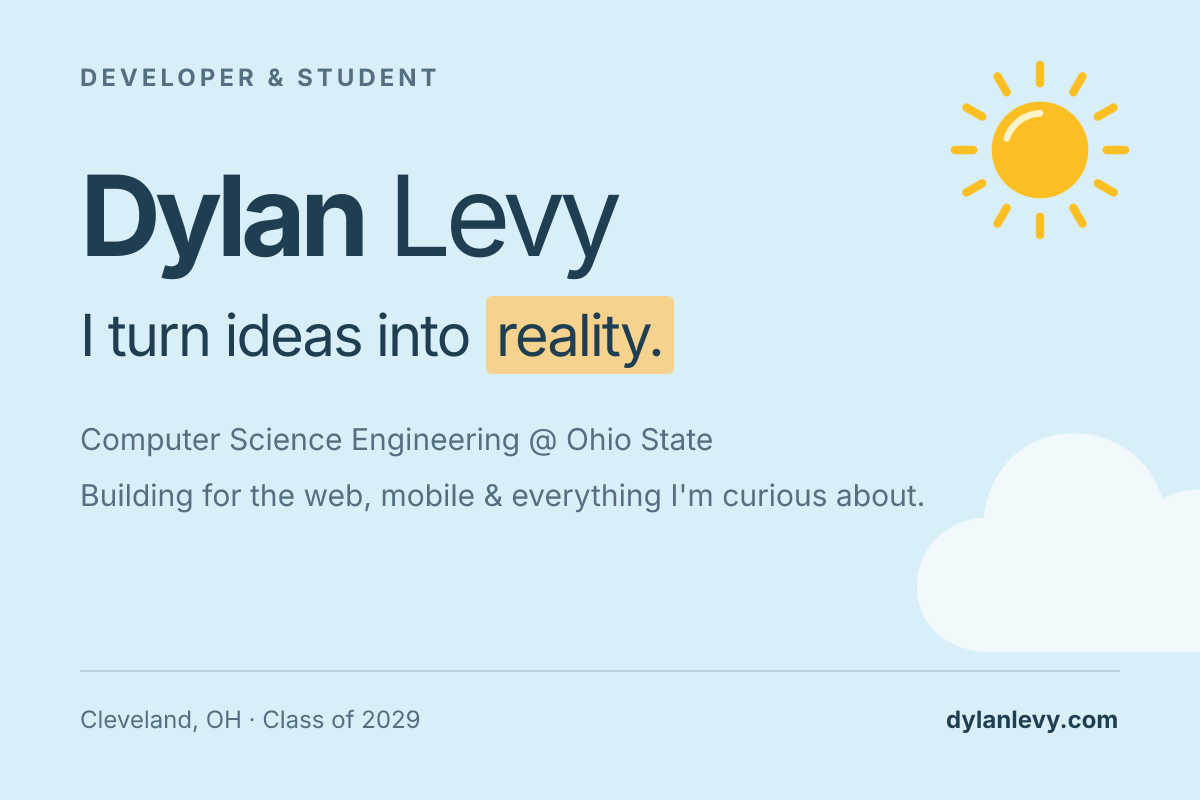
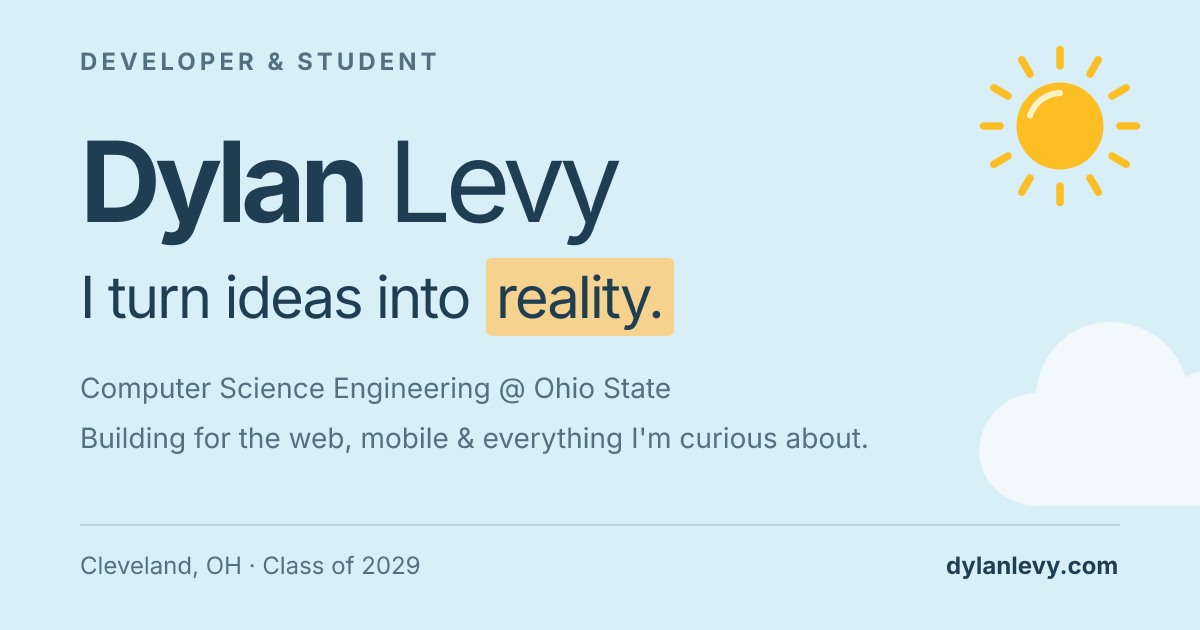
update og image

diff --git a/src/og/OGImage.tsx b/src/og/OGImage.tsx
@@ -7,7 +7,7 @@ export default function OGImage() {
         width: "100%",
         height: "100%",
         boxSizing: "border-box",
-        padding: "32px 40px",
+        padding: "24px 40px",
         backgroundColor: "#d8eff7",
         color: "#203e51",
         fontFamily: "Inter",
@@ -16,10 +16,10 @@ export default function OGImage() {
       }}
     >
       <svg
-        width="100"
-        height="100"
+        width="90"
+        height="90"
         viewBox="0 0 120 120"
-        style={{ position: "absolute", top: 25, right: 30 }}
+        style={{ position: "absolute", top: 18, right: 25 }}
       >
         <g stroke="#fbbf24" strokeWidth="5" strokeLinecap="round">
           {Array.from({ length: 12 }, (_, index) => (
@@ -44,10 +44,10 @@ export default function OGImage() {
       </svg>
 
       <svg
-        width="250"
-        height="188"
+        width="210"
+        height="158"
         viewBox="0 0 320 240"
-        style={{ position: "absolute", right: -85, bottom: 30, opacity: 0.65 }}
+        style={{ position: "absolute", right: -80, bottom: 25, opacity: 0.65 }}
       >
         <path
           d="M77 184C49 184 30 166 30 142C30 118 49 99 73 98C76 66 100 44 130 44C157 44 180 61 187 86C194 82 202 80 211 80C235 80 254 97 258 119C279 120 294 134 294 152C294 171 279 184 259 184Z"
@@ -69,7 +69,7 @@ export default function OGImage() {
       <h1
         style={{
           display: "flex",
-          margin: "33px 0 12px",
+          margin: "24px 0 10px",
           fontSize: 56,
           letterSpacing: -3,
           lineHeight: 1,
@@ -102,10 +102,10 @@ export default function OGImage() {
         style={{
           display: "flex",
           flexDirection: "column",
-          marginTop: 22,
-          gap: 7,
+          marginTop: 16,
+          gap: 5,
           color: "#536f80",
-          fontSize: 15,
+          fontSize: 14,
           lineHeight: 1.4,
         }}
       >
@@ -121,7 +121,7 @@ export default function OGImage() {
           alignItems: "center",
           marginTop: "auto",
           borderTop: "1px solid rgba(32, 62, 81, 0.15)",
-          paddingTop: 17,
+          paddingTop: 13,
           fontSize: 12,
           color: "#536f80",
         }}

diff --git a/scripts/build-og.ts b/scripts/build-og.ts
@@ -10,7 +10,7 @@ const inter = new URL(
 
 const svg = await satori(createElement(OGImage), {
   width: 600,
-  height: 400,
+  height: 315,
   fonts: [
     {
       name: "Inter",
@@ -32,5 +32,6 @@ const svg = await satori(createElement(OGImage), {
   ],
 });
 
+// Render the 600 × 315 layout at 2× for a sharp 1200 × 630 OG image.
 const png = await sharp(Buffer.from(svg), { density: 144 }).png().toBuffer();
 fs.writeFileSync("./public/og.png", png);
